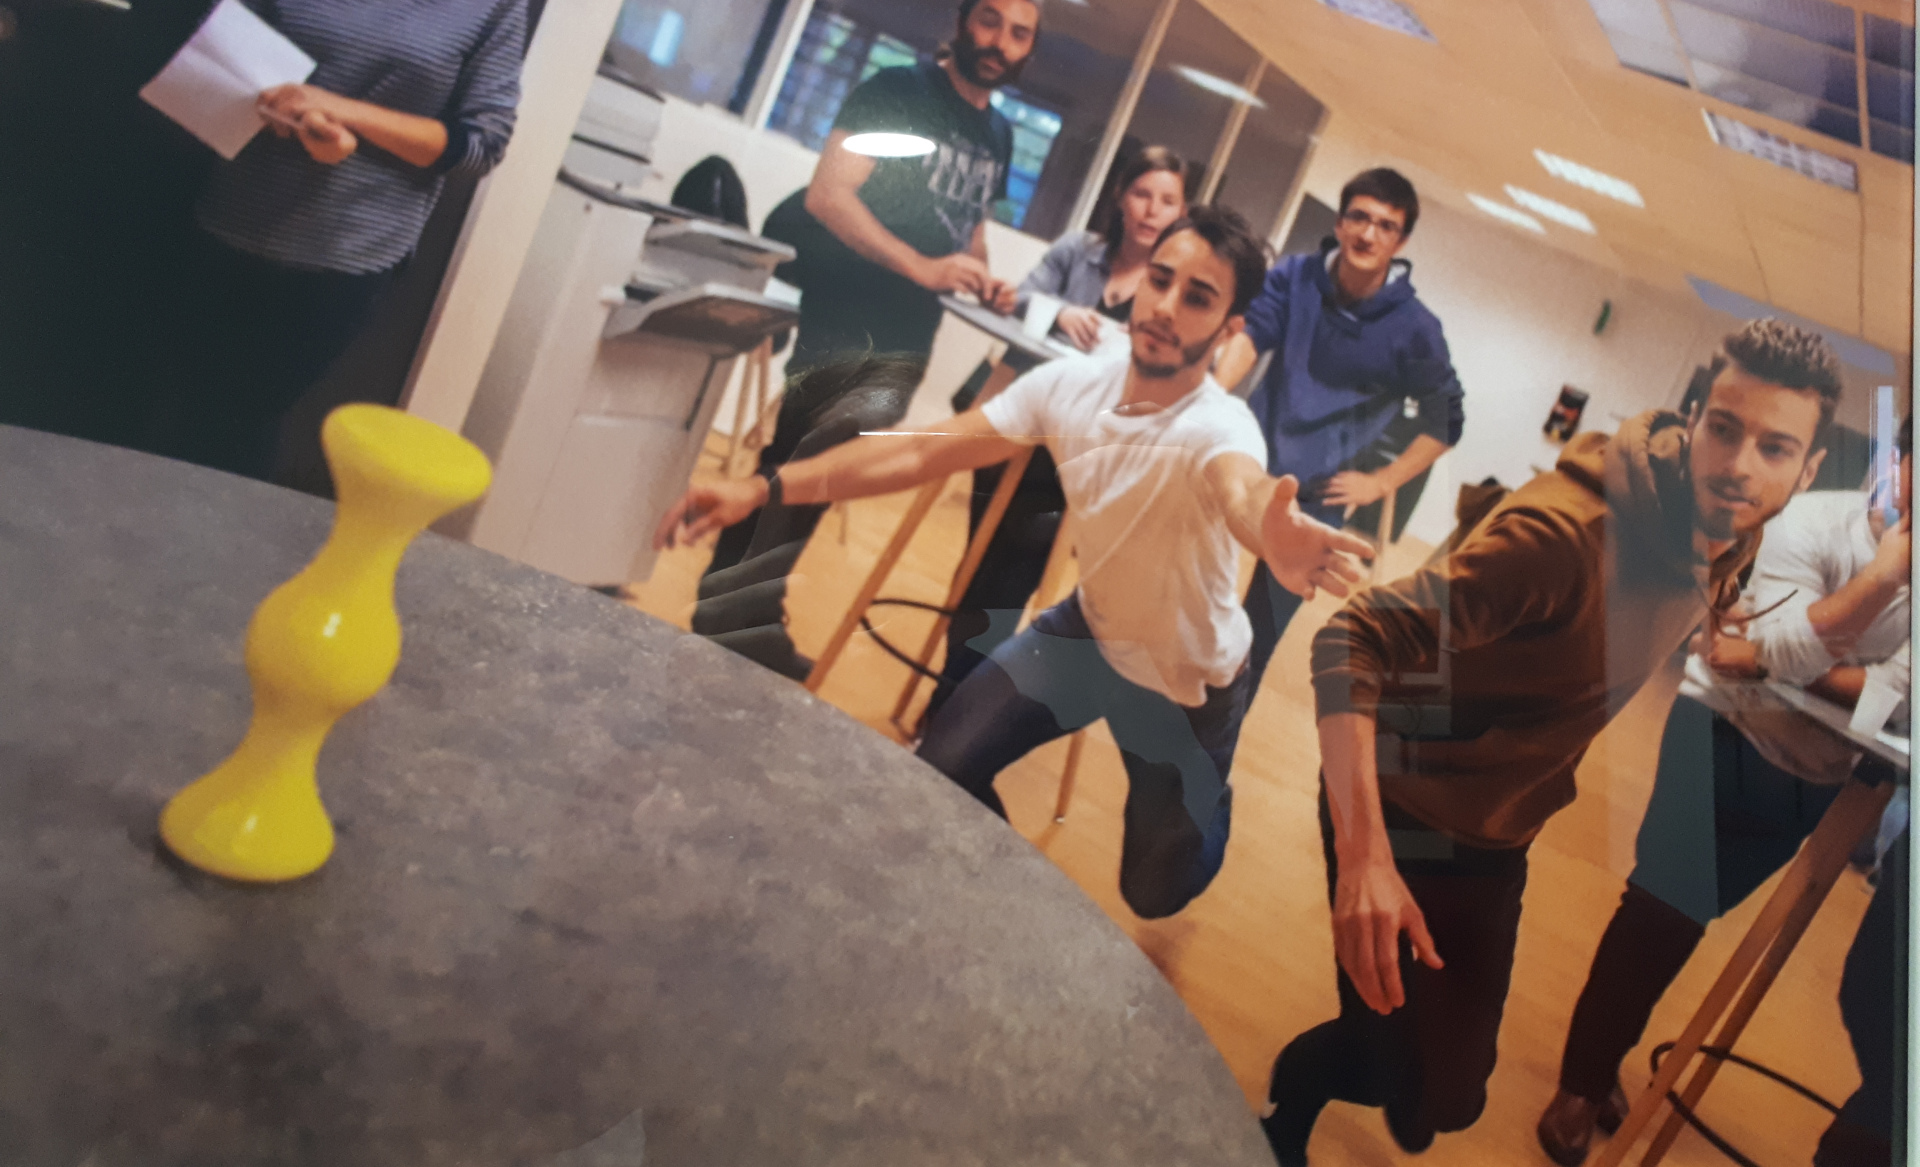
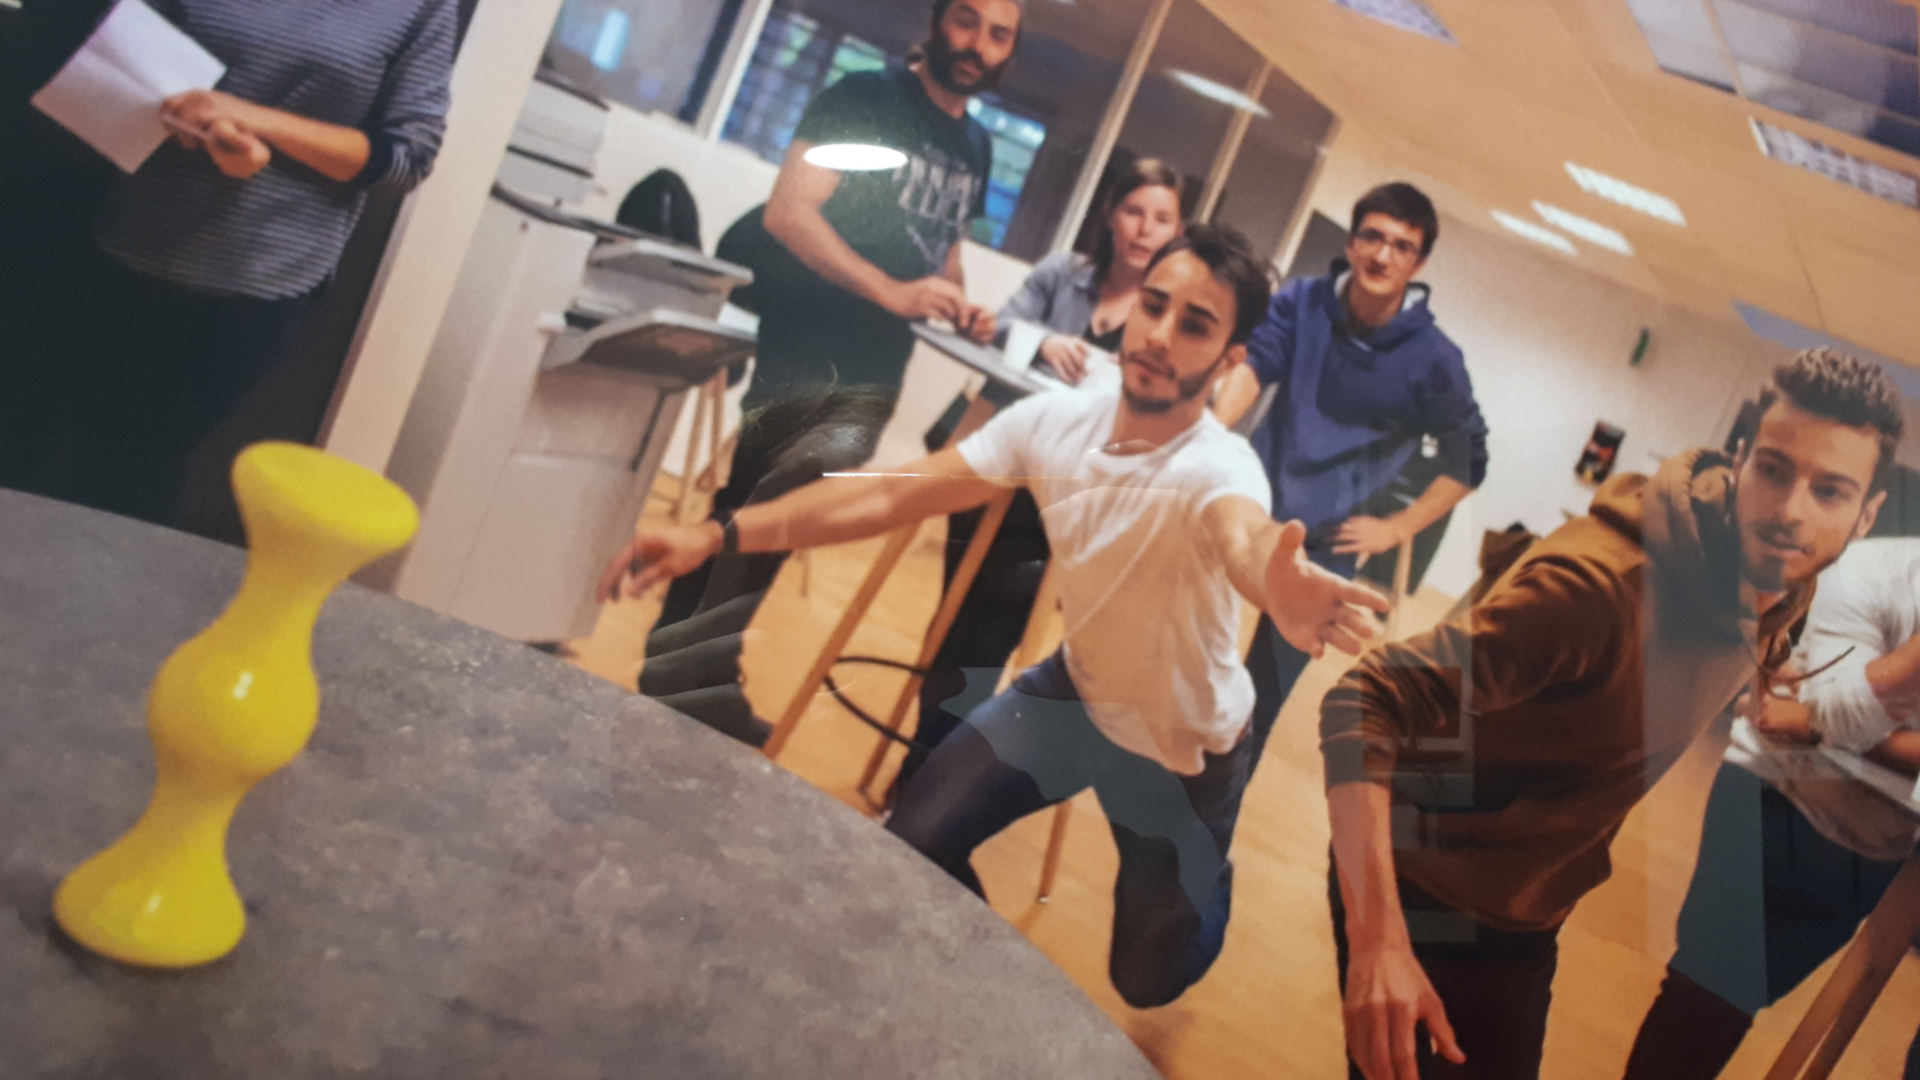
Accueil responsive sur écran ordinateur

diff --git a/public/css/accueil.css b/public/css/accueil.css
@@ -33,8 +33,9 @@ section:nth-child(even) {
     position: absolute;
     top: 0; left: 0; right: 0; bottom: 0;
     display: block;
+    background-position: center center;
+    background-repeat: no-repeat;
     background-size: cover;
-    min-width: 1000px;
     transform: translateZ(-.5px) scale(1.6);
     z-index: -1;
 }
@@ -49,7 +50,7 @@ section:nth-child(even) {
 .content {
     text-align: center;
     position: absolute;
-    padding: 1rem;
+    padding: 1em;
     box-shadow: 0 0 20px #333;
     top: 50%;
     left: 50%;
@@ -60,7 +61,6 @@ section:nth-child(even) {
 .section3 .content h2,
 .section5 .content h2,
 .section7 .content h2 {
-    font-size: 8rem;
     color: #011f39;
 }
 
@@ -69,7 +69,6 @@ section:nth-child(even) {
 .section4 .content h2,
 .section6 .content h2,
 .section8 .content h2 {
-    font-size: 8rem;
     color: white;
 }
 
@@ -77,8 +76,165 @@ section:nth-child(even) {
     user-select: none;
 }
 
-.content div {
-    font-size: 2em;
+@media (min-width: 1px) and (max-width: 299px){
+    .content h2 {
+        font-size: 2em !important;
+    }
+
+    .content div,
+    .content label,
+    .content input,
+    .content button {
+        font-size: 0.5em !important;
+        margin: 1px;
+        padding: 1px;
+        border-radius: 2px;
+    }
+}
+
+@media (min-width: 300px) and (max-width: 399px){
+    .content h2 {
+        font-size: 3em !important;
+    }
+
+    .content div,
+    .content label,
+    .content input,
+    .content button {
+        font-size: 0.7em !important;
+        margin: 1px;
+        padding: 1px;
+        border-radius: 2px;
+    }
+
+}
+
+@media (min-width: 400px) and (max-width: 499px) {
+    .content h2 {
+        font-size: 4em !important;
+    }
+
+    .content div,
+    .content label,
+    .content input,
+    .content button {
+        font-size: 1em !important;
+        margin: 2px;
+        padding: 2px;
+        border-radius: 5px;
+    }
+}
+
+@media (min-width: 500px) and (max-width: 599px) {
+    .content h2 {
+        font-size: 5em !important;
+    }
+
+    .content div,
+    .content label,
+    .content input,
+    .content button {
+        font-size: 1em !important;
+        margin: 3px;
+        padding: 3px;
+        border-radius: 7px;
+    }
+}
+
+@media (min-width: 600px) and (max-width: 767px) {
+    .content h2 {
+        font-size: 6em !important;
+    }
+
+    .content div,
+    .content label,
+    .content input,
+    .content button {
+        font-size: 1.1em !important;
+        margin: 3px;
+        padding: 3px;
+        border-radius: 7px;
+    }
+}
+
+@media (min-width: 769px) and (max-width: 999px) {
+    .content h2 {
+        font-size: 8em !important;
+    }
+
+    .content div,
+    .content label,
+    .content input,
+    .content button {
+        font-size: 1.2em !important;
+        margin: 4px;
+        padding: 4px;
+        border-radius: 10px;
+    }
+}
+
+@media (min-width: 1000px) and (max-width: 1079px) {
+    .content h2 {
+        font-size: 10em !important;
+    }
+
+    .content div,
+    .content label,
+    .content input,
+    .content button {
+        font-size: 1.4em !important;
+        margin: 5px;
+        padding: 5px;
+        border-radius: 10px;
+    }
+}
+
+@media (min-width: 1080px) and (max-width: 1439px) {
+    .content h2 {
+        font-size: 12em !important;
+    }
+
+    .content div,
+    .content label,
+    .content input,
+    .content button {
+        font-size: 1.5em !important;
+        margin: 7px;
+        padding: 10px;
+        border-radius: 10px;
+    }
+}
+
+@media (min-width: 1440px) and (max-width: 1919px) {
+    .content h2 {
+        font-size: 15em !important;
+    }
+
+    .content div,
+    .content label,
+    .content input,
+    .content button {
+        font-size: 1.7em !important;
+        margin: 10px;
+        padding: 10px;
+        border-radius: 7px;
+    }
+}
+
+@media (min-width: 1920px) {
+    .content h2 {
+        font-size: 18em !important;
+    }
+
+    .content div,
+    .content label,
+    .content input,
+    .content button {
+        font-size: 1.9em !important;
+        margin: 10px;
+        padding: 10px;
+        border-radius: 10px;
+    }
 }
 
 body:nth-child(even) .content {
@@ -122,8 +278,8 @@ body {
 
 .toLogin {
     position: absolute;
-    bottom: 50px;
-    right: 50px;
+    bottom: 10%;
+    right: 10%;
     z-index: 10;
 }
 /*************************************************************
